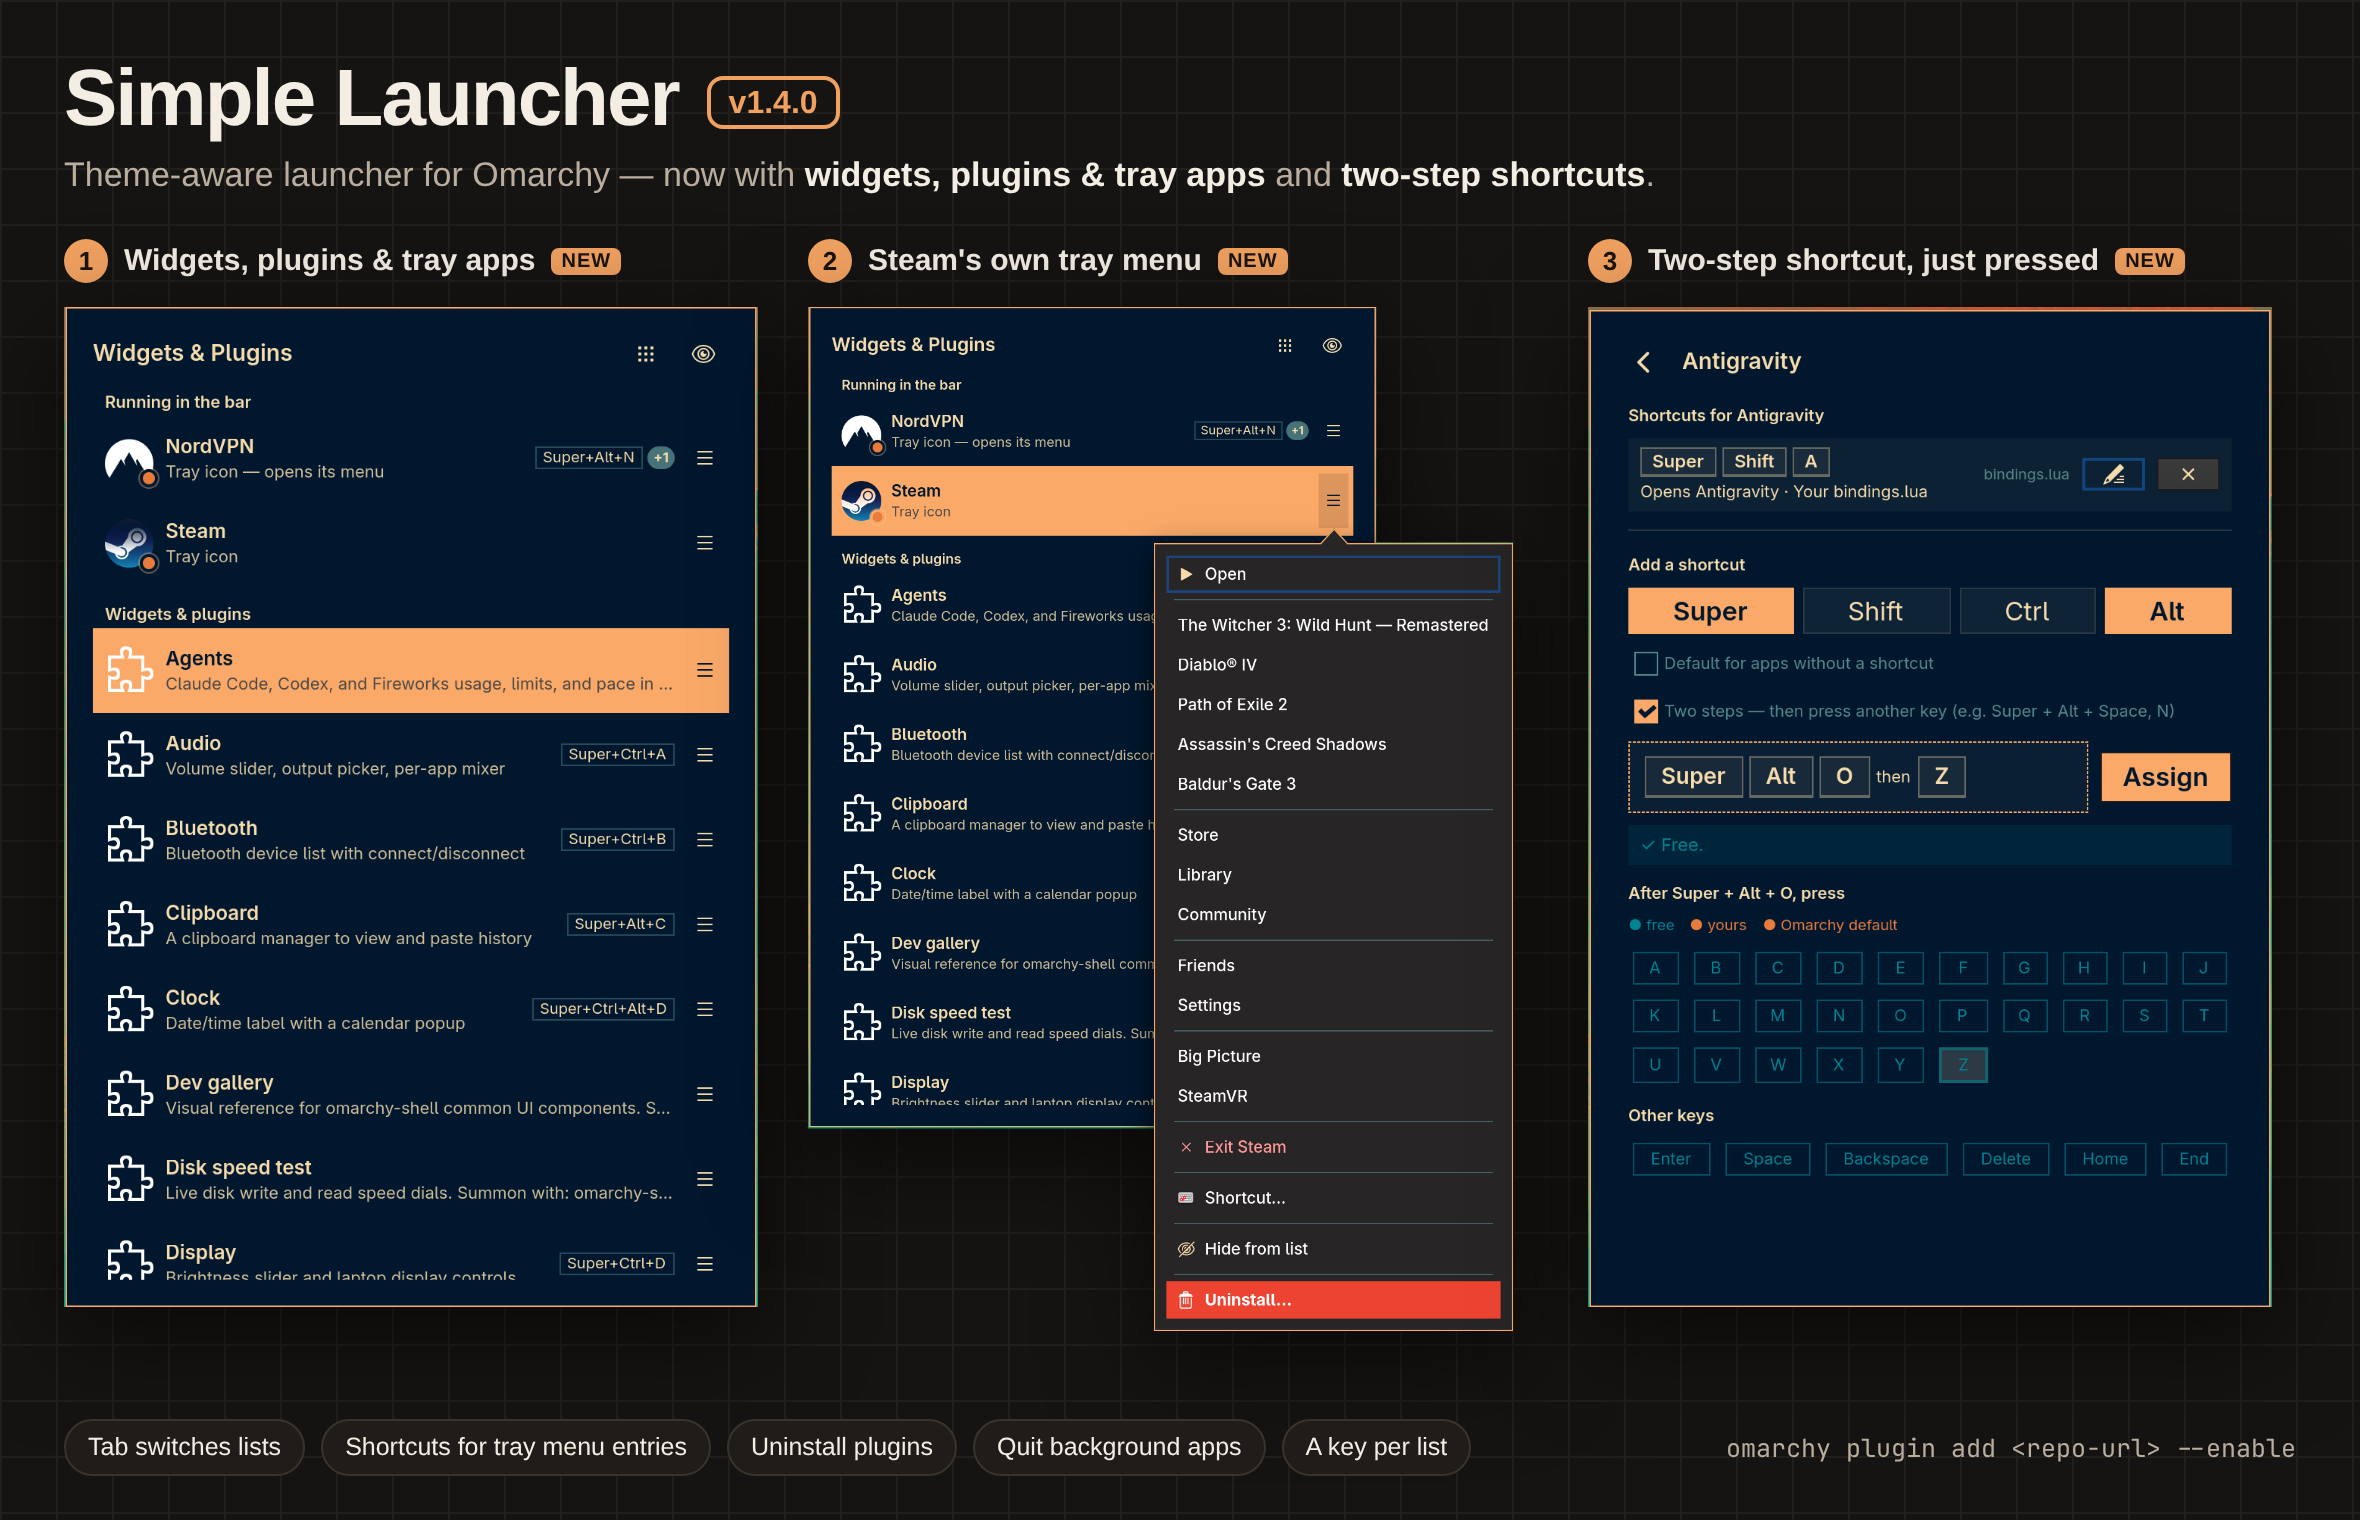
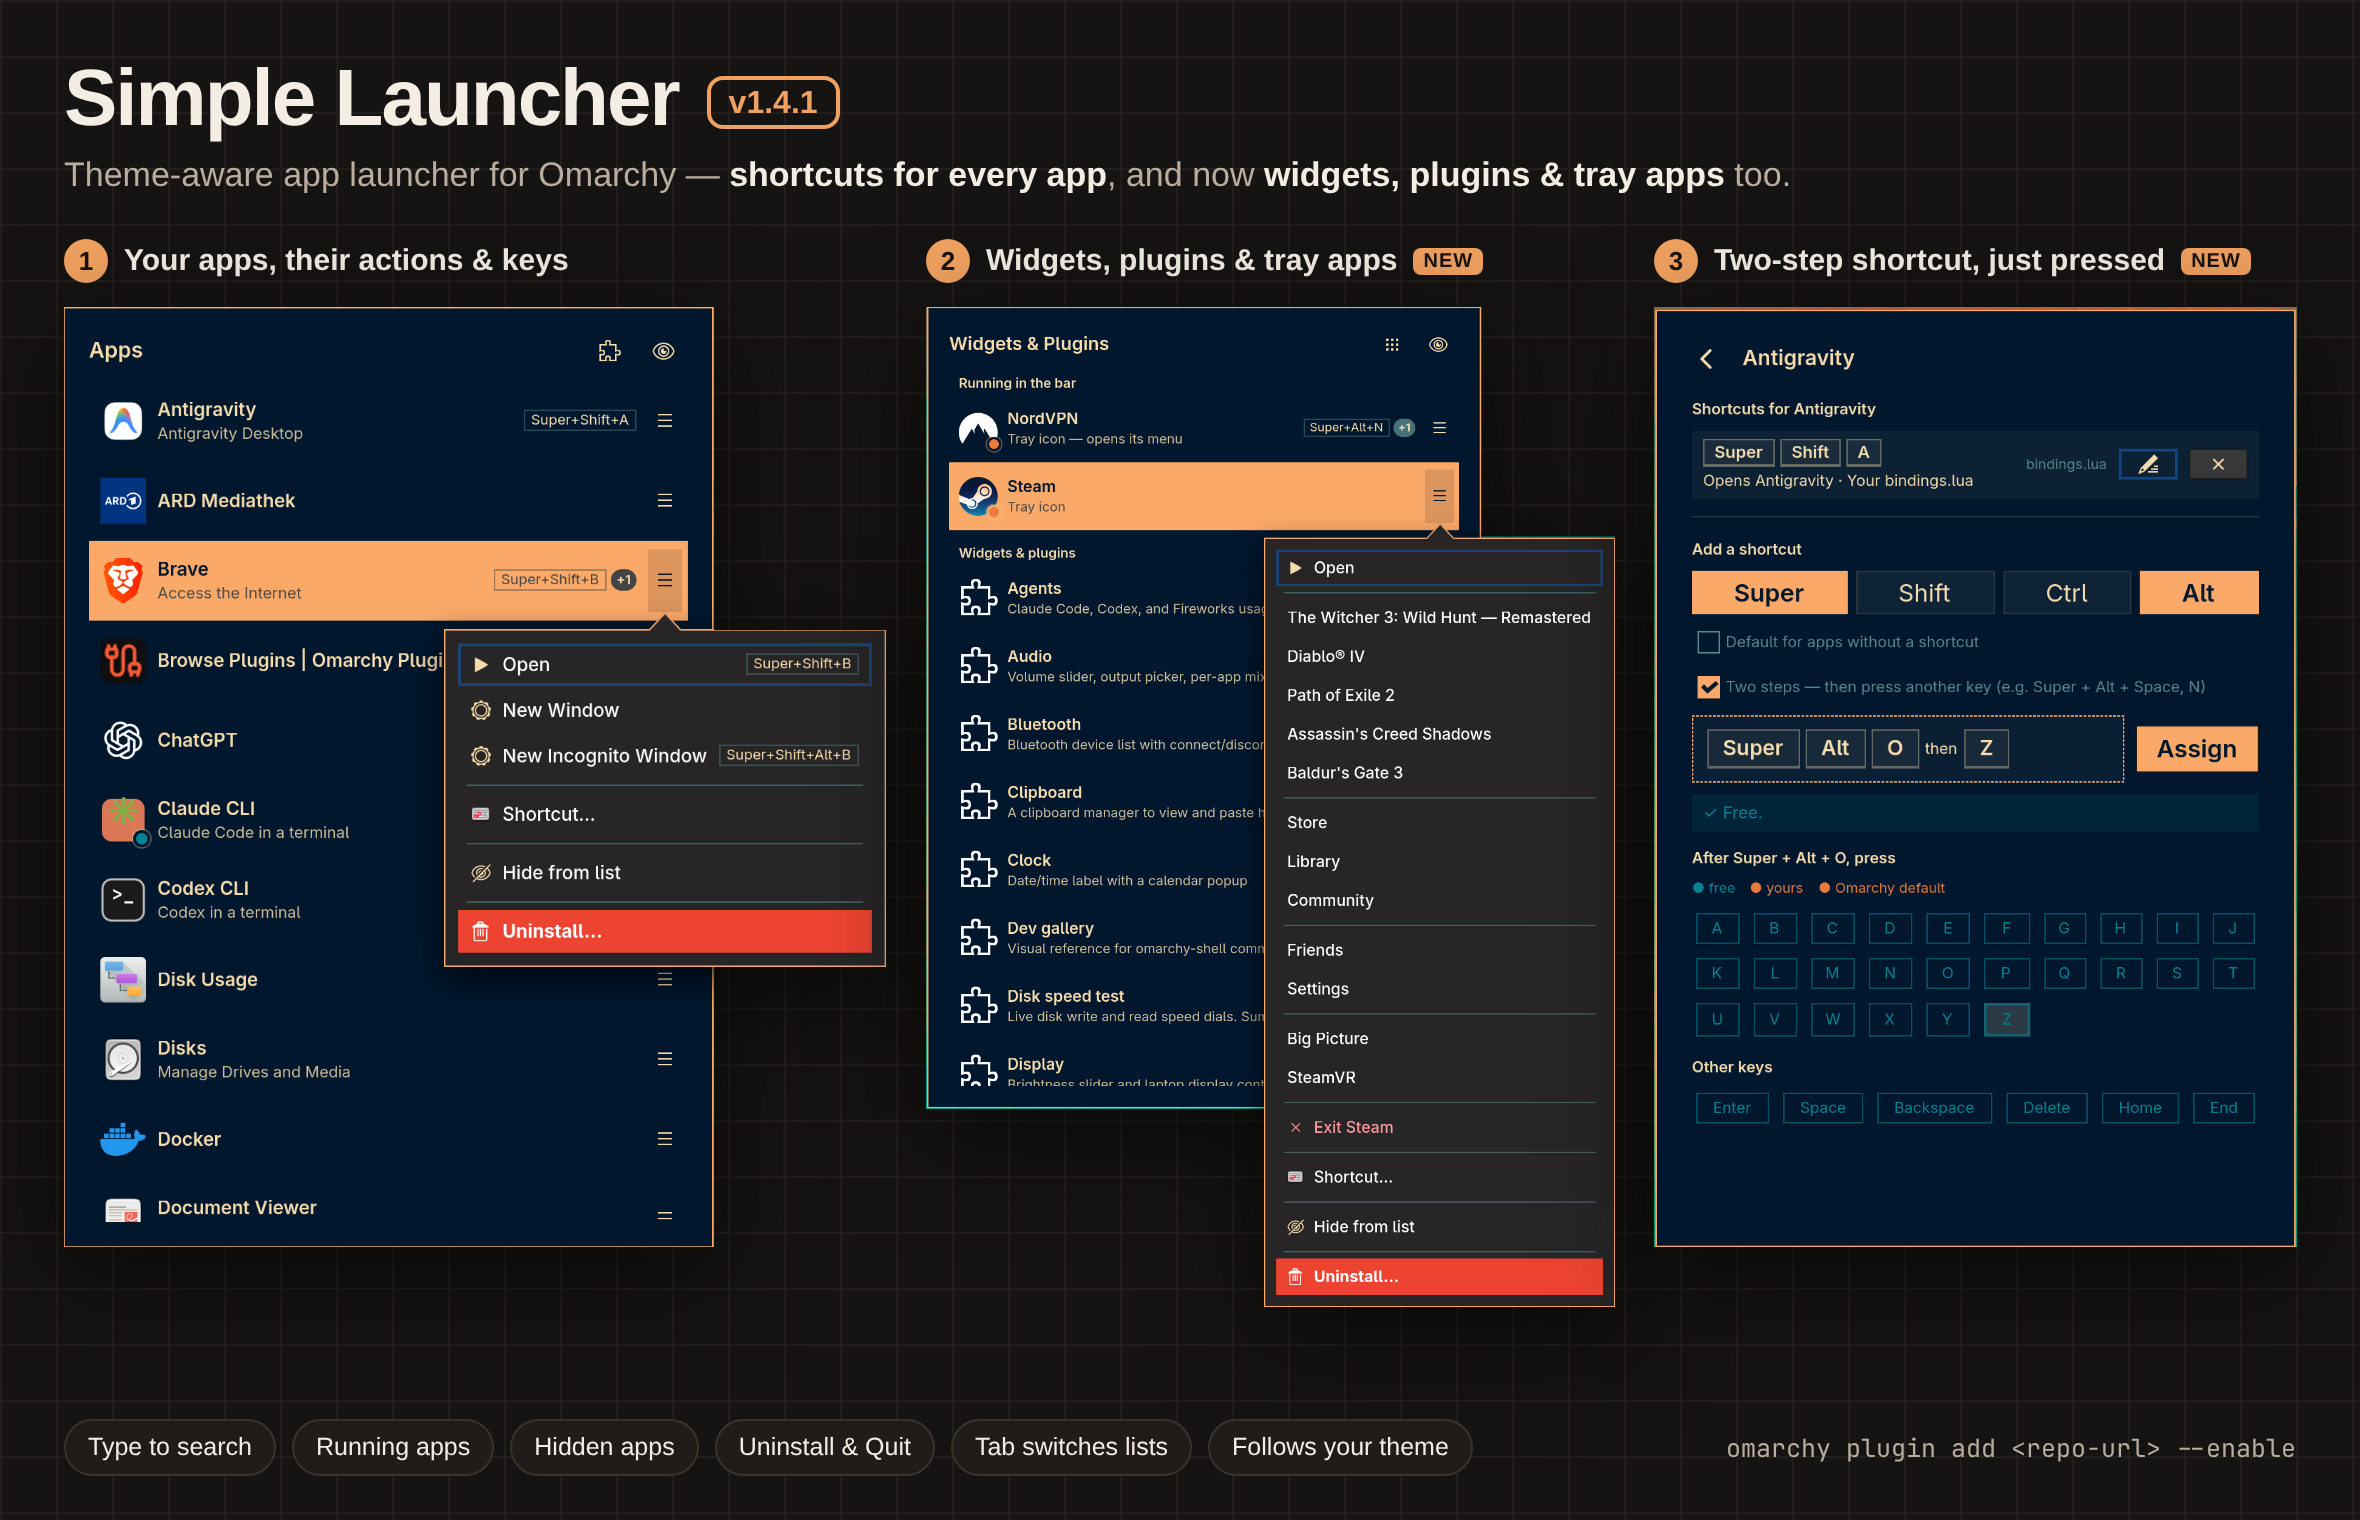
Show the app list first in the preview and description (1.4.1)

diff --git a/README.md b/README.md
@@ -16,6 +16,10 @@ Open an app's menu (`☰`, `→`) → **Shortcut…**, or press `Ctrl+K`.
 - **All shortcuts of an app in one place**: launcher-made ones, your own `bindings.lua` binds and Omarchy defaults (including your default terminal, browser and editor, e.g. `Super + Enter` → Foot). Change, remove or turn off any of them; a `+1` badge in the list shows apps with more than one.
 - **No duplicates, no edits to your files**: a key that already opens the same thing is never added twice. Everything lives in a generated `~/.config/hypr/simple-launcher-shortcuts.lua`, validated with `hyprctl configerrors` and rolled back if Hyprland rejects it.
 
+## Changes in 1.4.1
+
+New marketplace preview and description that show the app list first. No code changes.
+
 ## Changes in 1.4.0
 
 A second list for Omarchy shell **widgets & plugins** (Audio, Bluetooth, Clipboard, Emojis, Weather, Omamail, …). The puzzle-piece button next to the eye switches between apps and widgets (or press `Tab`); the grid button switches back. The widget list has its own show-hidden toggle, and its `☰` menu works like the app menu: **Open**, **Shortcut…** (`Ctrl+K`) and **Hide from list**. A widget shortcut toggles it like Omarchy's own `Super + Ctrl + V` does for the clipboard, and Omarchy defaults like that one show up on the shortcut page. Only plugins the shell can open are listed; bar widgets that just run a command when clicked are left out. Hidden widgets are saved in `~/.config/applauncher/hidden-plugins.json`.

diff --git a/MARKETPLACE.md b/MARKETPLACE.md
@@ -8,7 +8,7 @@ This document contains the ready-to-use copy, metadata, and feature breakdown fo
 
 - **Plugin ID**: `ubruckhaus.simple-launcher-for-fools`
 - **Display Name**: `Simple Launcher`
-- **Version**: `1.4.0`
+- **Version**: `1.4.1`
 - **Author**: `Uwe Bruckhaus`
 - **Category**: `Desktop`
 - **Tags**: `launcher`, `bar`, `quickshell`
@@ -20,7 +20,7 @@ This document contains the ready-to-use copy, metadata, and feature breakdown fo
 
 ## 🏷 Short Description (Tagline)
 
-> Fast, theme-aware launcher for Omarchy apps, widgets, plugins and tray apps, with an advanced shortcut editor: bind keys or two-step sequences to apps, their actions or tray menu entries, see who owns every key, and rebind any of them in one click.
+> Fast, theme-aware app launcher for Omarchy: type to find any app, give it or its actions (e.g. New Incognito Window) a global shortcut, and open widgets, plugins and tray apps from a second list. See who owns every key, rebind it in one click, or use two-step shortcuts.
 
 ---
 
